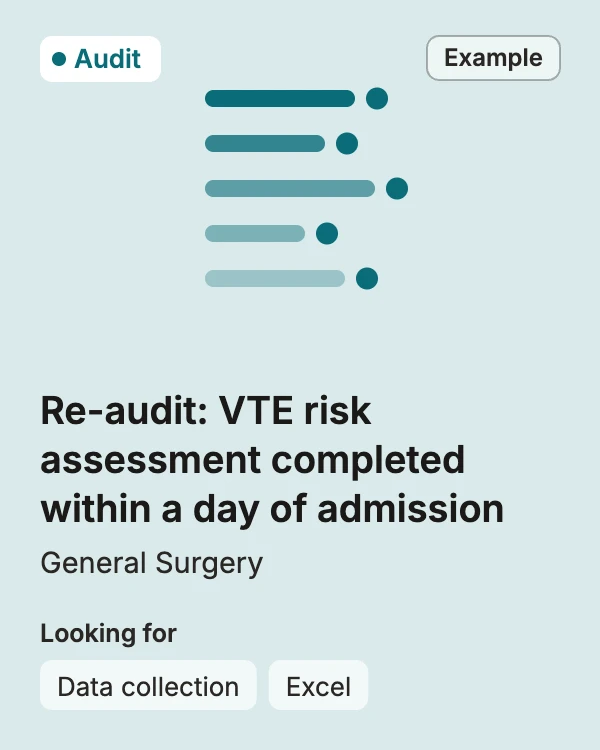
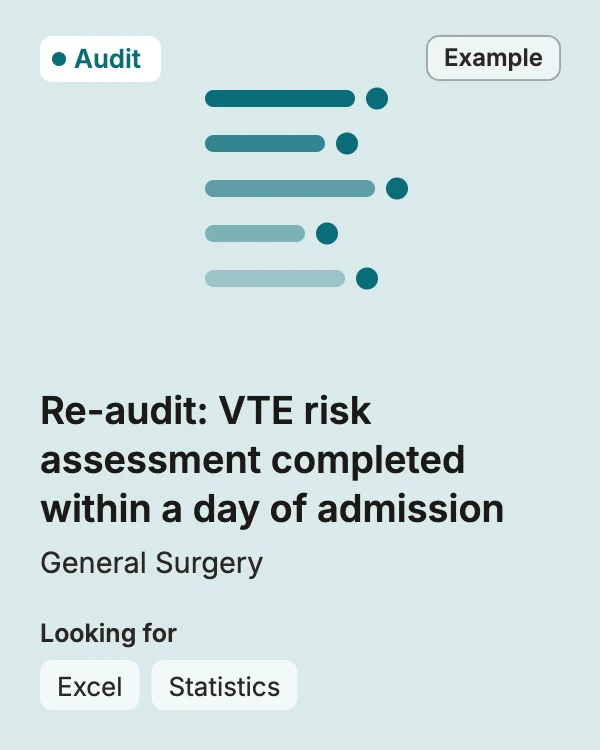
Hero tiles: vary the skills so Data collection appears once

Changed region(s): [[0.09, 0.8587, 0.6, 0.9507]]

diff --git a/src/components/HeroCarousel.tsx b/src/components/HeroCarousel.tsx
@@ -16,12 +16,12 @@ const TILES = [
   {
     src: "/hero/audit.webp",
     backColor: "#bfdcdf",
-    title: "Audit example from General Surgery: re-audit of VTE risk assessment completed within a day of admission. Looking for data collection and Excel.",
+    title: "Audit example from General Surgery: re-audit of VTE risk assessment completed within a day of admission. Looking for Excel and statistics.",
   },
   {
     src: "/hero/research.webp",
     backColor: "#d3c8e6",
-    title: "Research example from Anaesthetics and Critical Care: retrospective review of outcomes after emergency laparotomy in older adults. Looking for literature review and statistics.",
+    title: "Research example from Anaesthetics and Critical Care: retrospective review of outcomes after emergency laparotomy in older adults. Looking for literature review and manuscript writing.",
   },
   {
     src: "/hero/teaching.webp",
